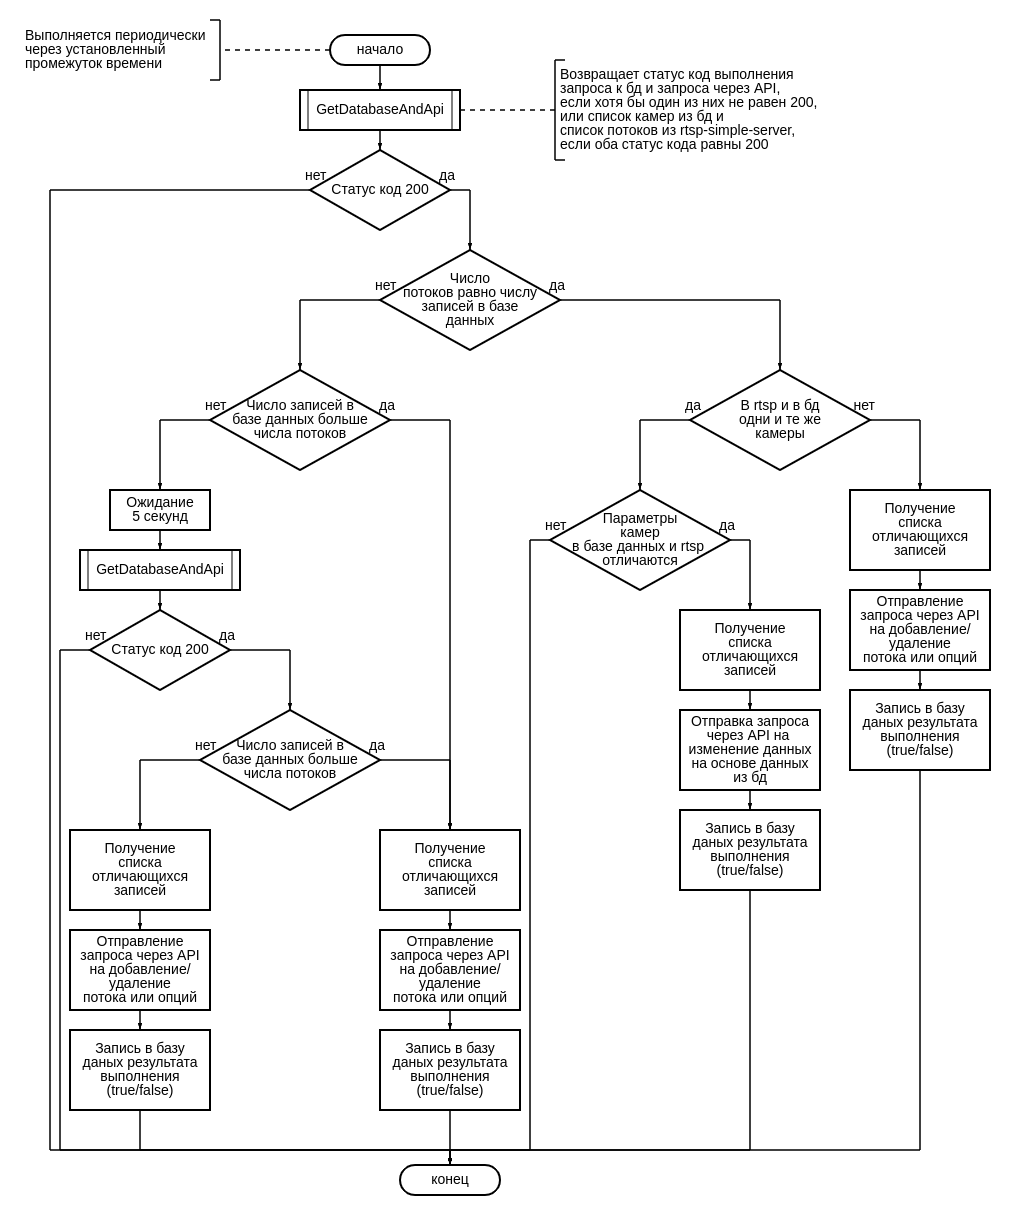
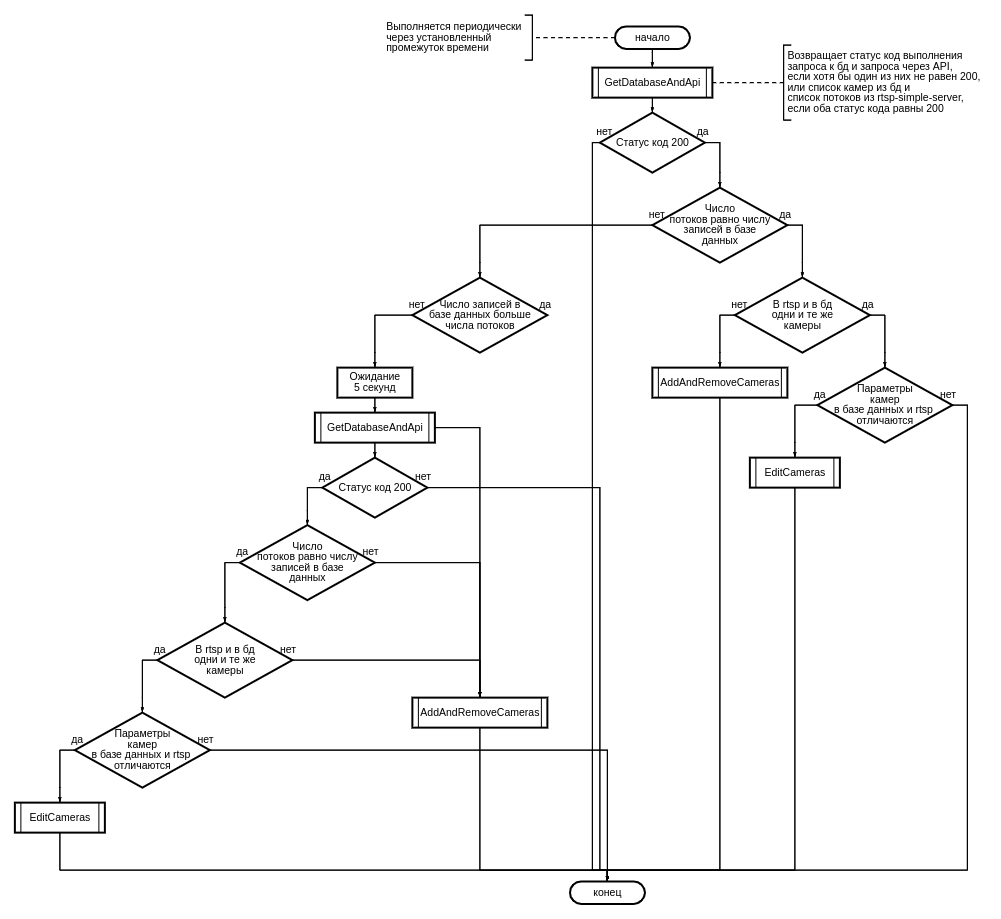
Edit block diagram

diff --git a/README.md b/README.md
@@ -7,7 +7,15 @@ System for raising video streams for a parallel project(274)
 
 Блок-схема подпрограммы GetDatabaseAndApi
 
-<img src="https://github.com/Kseniya-cha/System-for-raising-video-streams/raw/main/pictures/subroutine.png" width=40%/>
+<img src="https://github.com/Kseniya-cha/System-for-raising-video-streams/raw/main/pictures/GetDatabaseAndApi.png" width=40%/>
+
+Блок-схема подпрограммы AddAndRemoveCameras
+
+<img src="https://github.com/Kseniya-cha/System-for-raising-video-streams/raw/main/pictures/AddAndRemoveCameras.png" width=40%/>
+
+Блок-схема подпрограммы EditCameras
+
+<img src="https://github.com/Kseniya-cha/System-for-raising-video-streams/raw/main/pictures/EditCameras.png" width=40%/>
 
 При чтении конфигурационного файла (.yaml) проверяется наличие параметров в командной строке, если их нет, значения параметров берутся из конфигурационного файла. Программа выполняется периодически через установленный промежуток времени. Далее описан алгоритм для одного периода.
 
